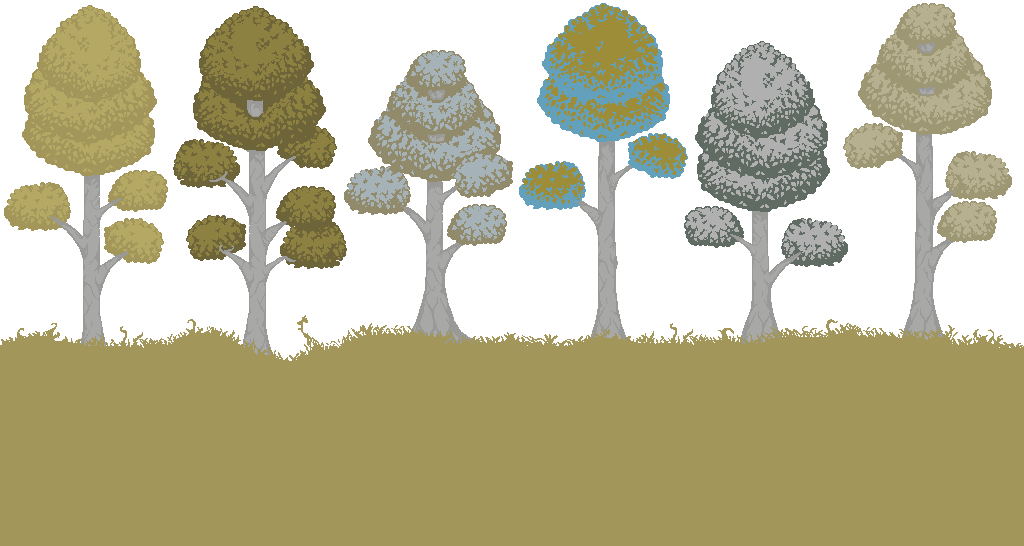
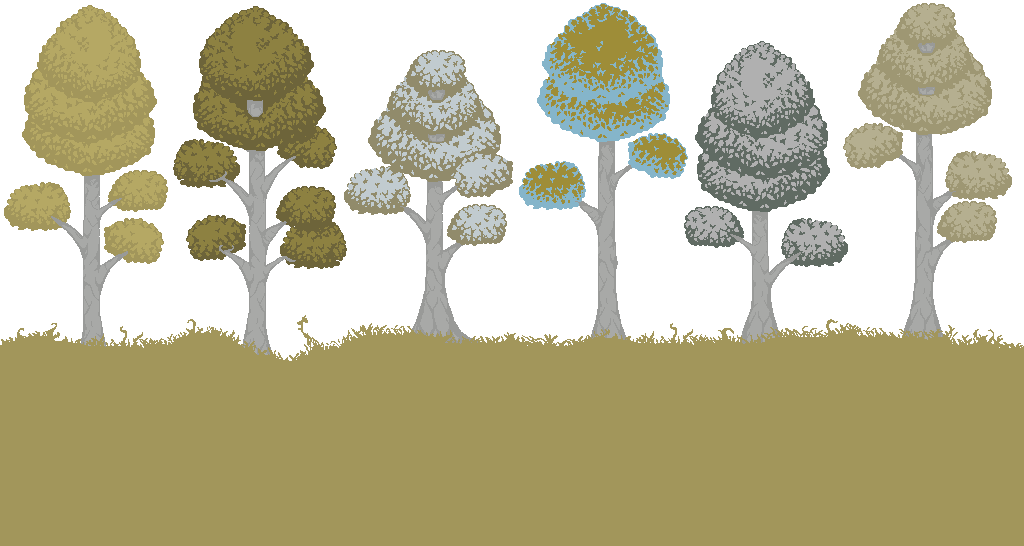
fix

Changed region(s): [[0.3438, 0.0934, 0.5938, 0.4359], [0.5, 0.0, 0.6875, 0.3425]]

diff --git a/recolor_backgrounds.py b/recolor_backgrounds.py
@@ -122,7 +122,7 @@ def recolor_surface1(image):
     return result
 
 def recolor_ice2(image):
-    """Ice2: purples -> yellows, pinks -> whites, blues -> sky blue"""
+    """Ice2: purples -> gold, pinks -> bright yellow, dark blues -> bright blues"""
     if image.mode != 'RGBA':
         image = image.convert('RGBA')
 
@@ -141,17 +141,16 @@ def recolor_ice2(image):
             new_pixels.append((r, g, b, a))
             continue
 
-        # Purples (hue ~0.7-0.85) -> yellow
+        # Purples (hue ~0.7-0.85) -> gold (dark-ish yellow)
         if 0.7 < h < 0.85:
-            h = 0.14  # Yellow
-        # Pinks/magentas (hue ~0.85-1.0 or 0.0-0.05) -> white
+            h = 0.12  # Gold
+        # Pinks/magentas (hue ~0.85-1.0 or 0.0-0.05) -> bright yellow
         elif h > 0.85 or h < 0.05:
-            s = s * 0.08  # Desaturate to white
-            l = min(1.0, l + 0.1)
-        # Blues (hue ~0.5-0.7) -> sky blue (brighten)
-        elif 0.5 < h < 0.7:
-            h = 0.55  # Sky blue
-            l = min(1.0, l + 0.15)  # Brighten dark blues
+            h = 0.14  # Bright yellow
+            l = min(1.0, l + 0.1)  # Brighten
+        # Blues (hue ~0.45-0.72) -> brighten them significantly
+        elif 0.45 < h < 0.72:
+            l = min(1.0, l + 0.35)  # Brighten dark blues more aggressively
 
         r2, g2, b2 = colorsys.hls_to_rgb(h, l, s)
         new_pixels.append((int(r2*255), int(g2*255), int(b2*255), a))
@@ -442,7 +441,7 @@ def main():
     if os.path.exists(ice3_path):
         print(f"Processing RaptureIce3.png...")
         img = Image.open(ice3_path)
-        recolored = recolor_ice2_3(img)
+        recolored = recolor_ice2(img)
         recolored.save(ice3_path)
         print("  Done!")
     else:
